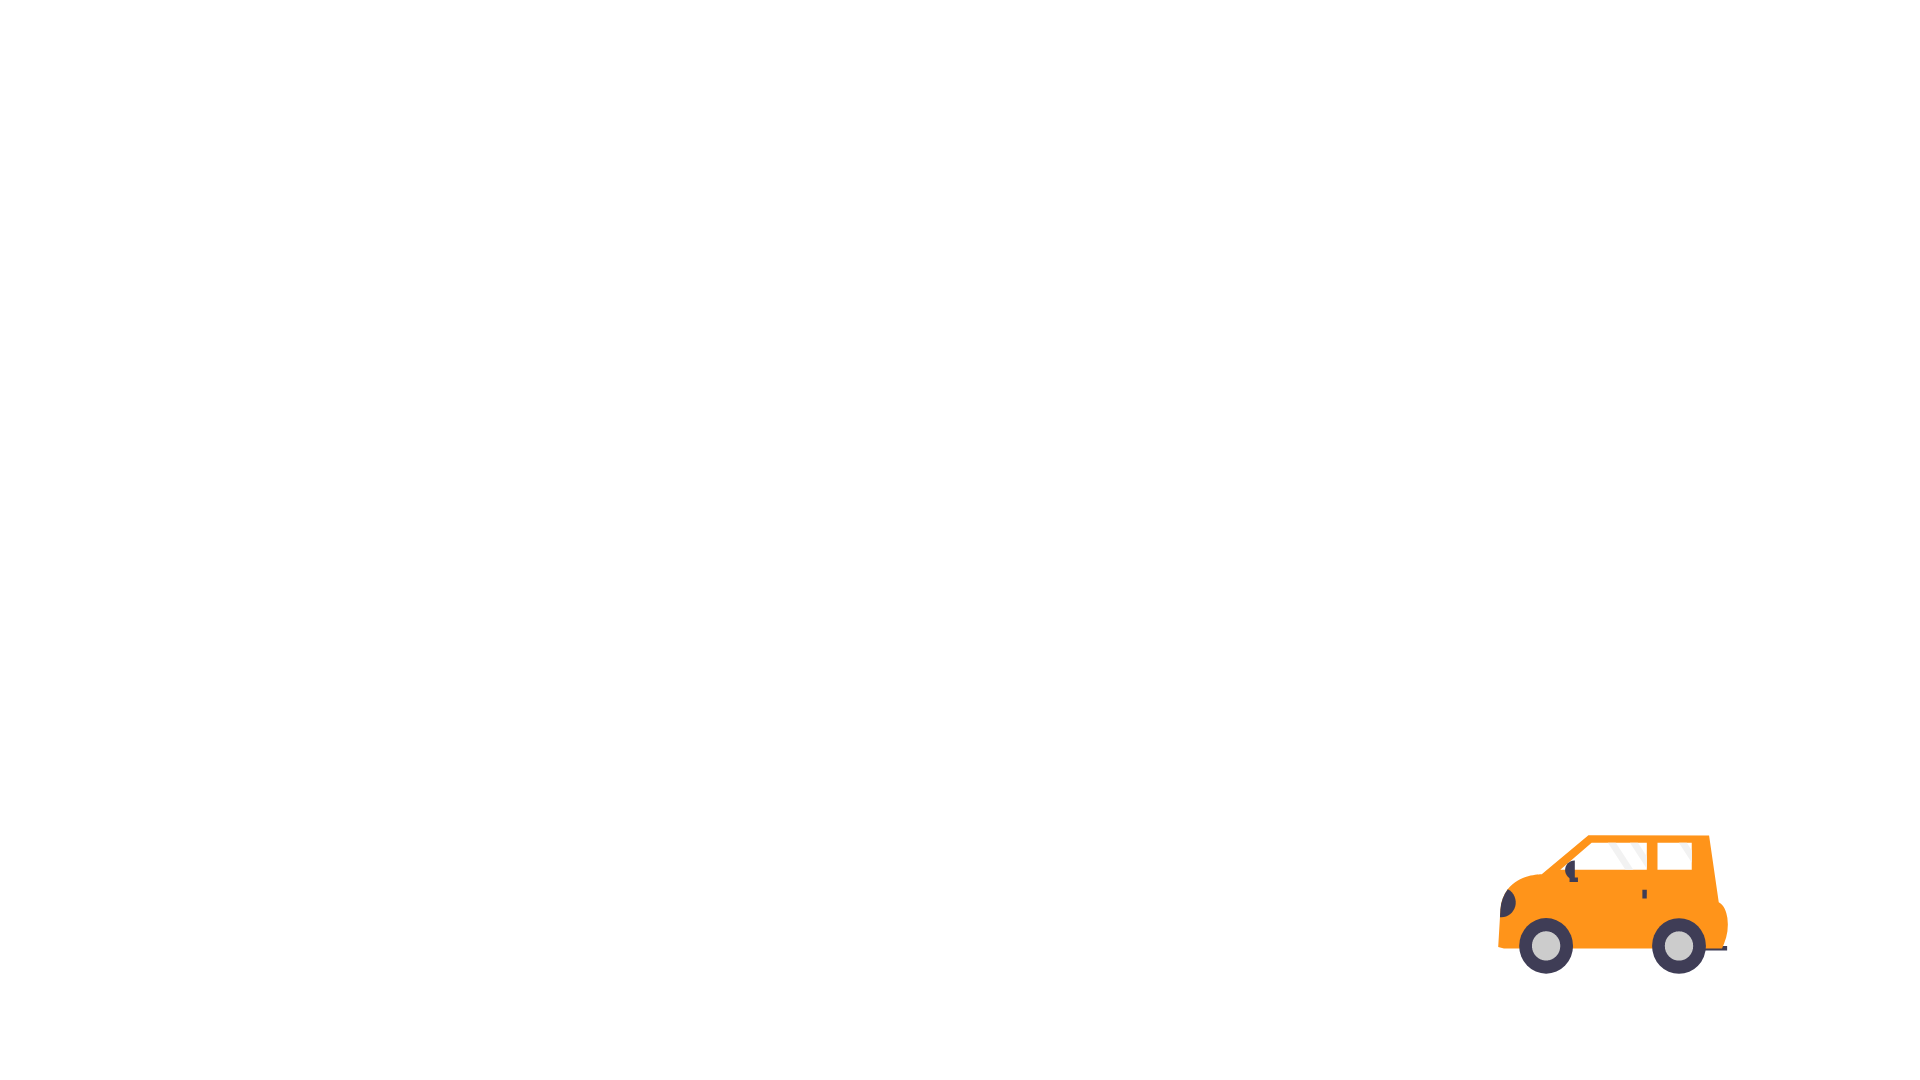
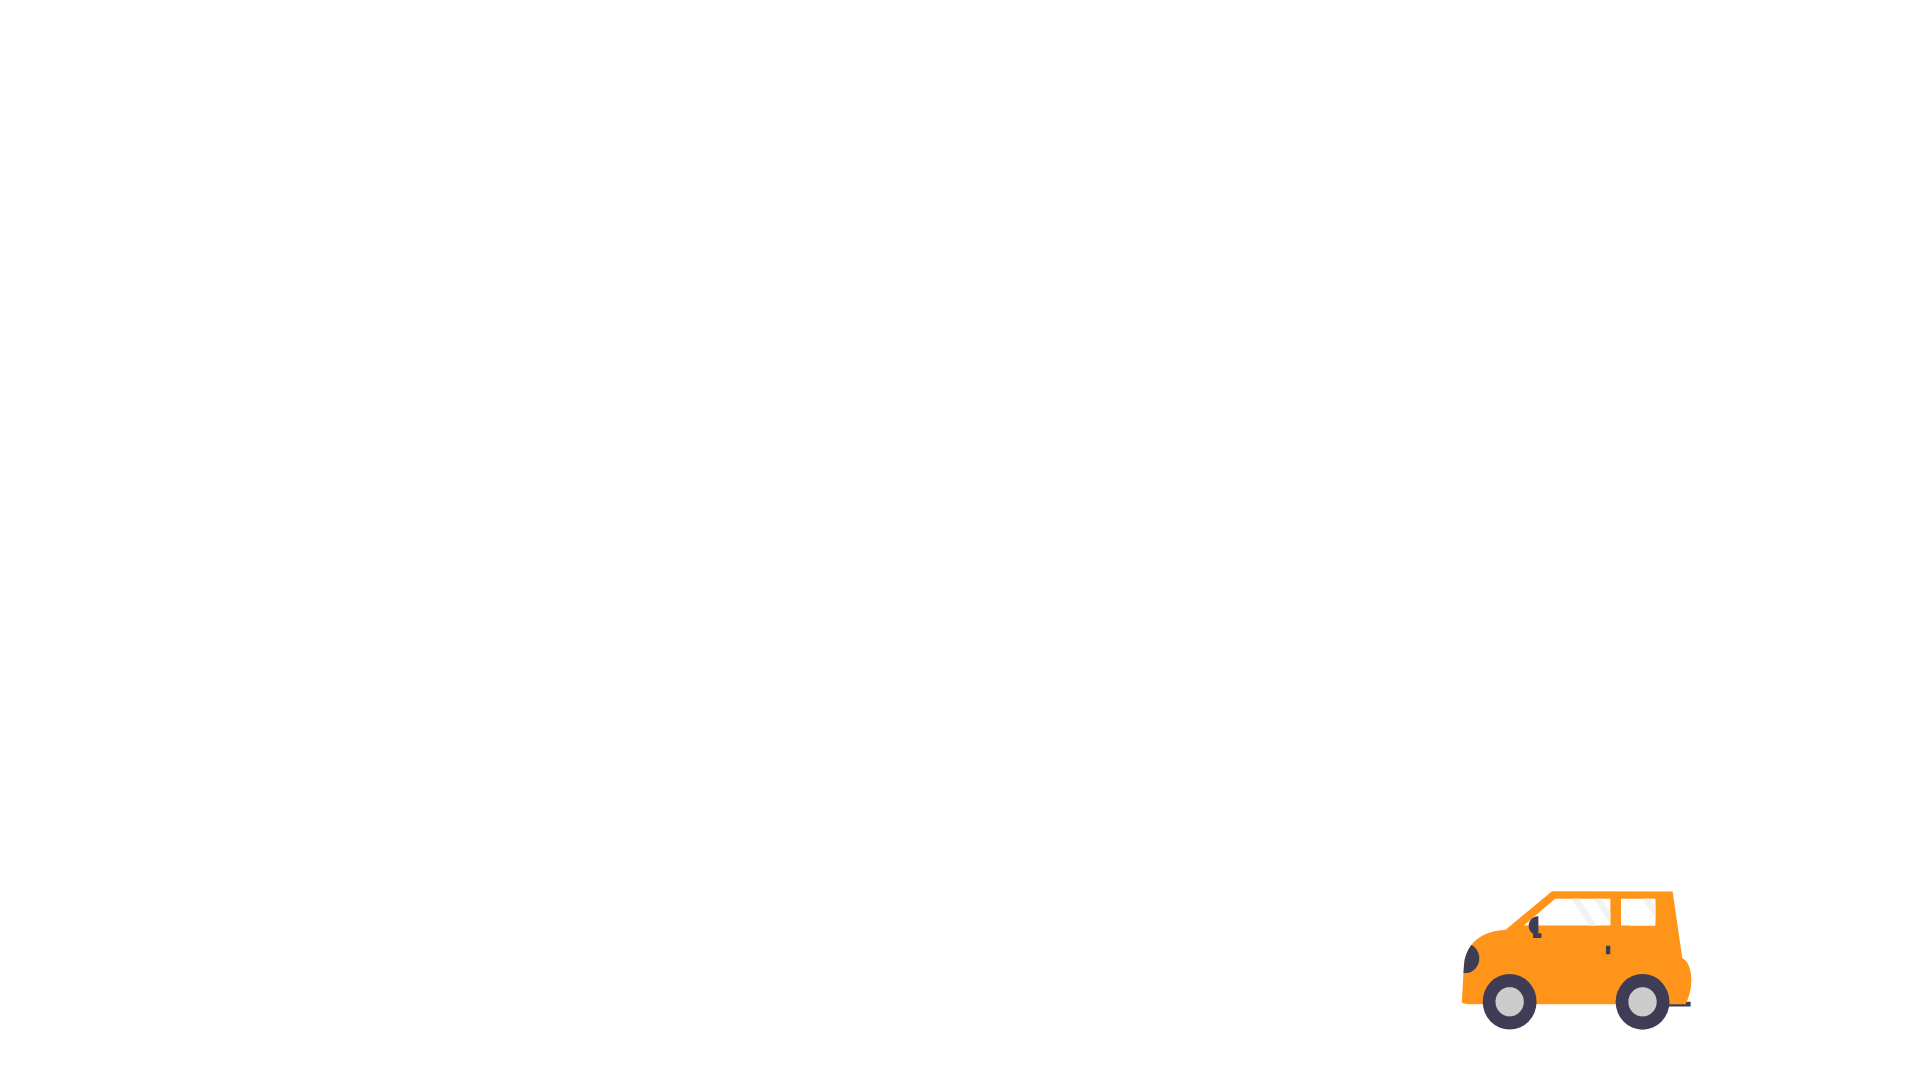
commit on master

Changed region(s): [[0.75, 0.7639, 0.9062, 0.9472]]

diff --git a/issues/section.css b/issues/section.css
@@ -1,239 +1,47 @@
-:root {
-    --primary: rgb(255, 145, 0);
-    --light: white;
-    --dark: black;
-  }
-  * {
-    padding: 0;
-    margin: 0;
-    box-sizing: border-box;
-    font-family: "Segoe UI", Tahoma, Geneva, Verdana, sans-serif;
-  }
-  body {
-    background: white;
-    overflow-x: hidden;
-  }
-  
-  header .container {
+body {
+  background: white;
+  overflow-x: hidden;
+}
+* {
+  padding: 0;
+  margin: 0;
+  box-sizing: border-box;
+}
+.section{
     display: flex;
+    width: 100%;
     justify-content: space-between;
+    position: relative;
     align-items: center;
-    width: 100%;
-    margin-right: 0%;
-    margin-top: 20px;
-    top: 0;
-    left: 0;
-  }
-  header {
-    padding: 0 20px;
-    height: 50px;
-    display: flex;
-    justify-content: space-between;
-  }
-  
-  .title {
-    display: flex;
-    font-family: "Segoe UI", Tahoma, Geneva, Verdana, sans-serif;
-    padding-left: 15px;
-    align-items: center;
-  }
-  #title_text {
-    z-index: 1;
-    font-size: 1em;
-    padding-left: 15px;
-    position: absolute;
-  }
-  #title-line {
-    z-index: 3;
-    width: 5px;
-    height: 45px;
-    position: absolute;
-  }
-  
-  
-  .navbar li {
-    float: left;
-    list-style: none;
-    margin: 13px 20px;
-  }
-  
-  ul {
-    list-style: none;
-  }
-  
-  .navbar li a {
-    border-radius: 50px;
-    background-color: rgb(255, 145, 0);
-    padding: 6px 20px;
-    box-shadow: 1px 1px 4px rgb(49, 49, 49);
-    text-decoration: none;
-    color: white;
-    font-family: "Segoe UI", Tahoma, Geneva, Verdana, sans-serif;
-    font-variant: normal;
-    font-weight: bold;
-  }
-  .navbar li a:hover {
-    background-color: white;
-    color: rgb(255, 145, 0);
-  }
-  
-  .menu{
-    margin: auto 0;
-    display: none;
-    cursor: pointer;
-  }
-  
-  .menu div {
-    width: 35px;
-    height: 3px;
-    background-color: black;
-    margin: 6px 0;
-    transition: 0.4s;
-  }
-  
-  .menu:hover .bar2{
-    transform: translateX(10px);
-    background-color: var(--primary);
-  
-  }
-  .open .bar1 {
-    -webkit-transform: rotate(-45deg) translate(-6px, 6px);
-    transform: rotate(-45deg) translate(-6px, 6px);
-  }
-  
-  .open .bar2 {
-    opacity: 0;
-  }
-  
-  .open .bar3 {
-    -webkit-transform: rotate(45deg) translate(-6px, -8px);
-    transform: rotate(45deg) translate(-6px, -8px);
-  }
-  .menu.open:hover div{
-    background-color: var(--primary);
-  }
-  
-  .open .mobile-menu {
-    display: flex;
-    flex-direction: column;
-    align-items: center;
-    justify-content: flex-start;
-  }
-  
-  .mobile-menu {
-    display: none;
-    position: absolute;
-    list-style: none;
-    top: 100px;
-    left: 0;
-    text-decoration: none;
-    height: calc(100vh - 50px);
-    width: 100%;
-  }
-  
-  .mobile-menu li {
-    float: left;
-    list-style: none;
-    margin: 13px 20px;
-  }
-  .mobile-menu li a {
-    border-radius: 50px;
-    background-color: rgb(255, 145, 0);
-    padding: 6px 20px;
-    box-shadow: 1px 1px 4px rgb(49, 49, 49);
-    text-decoration: none;
-    color: white;
-    font-family: "Segoe UI", Tahoma, Geneva, Verdana, sans-serif;
-    font-variant: normal;
-    font-weight: bold;
-  }
-  .mobile-menu li a:hover {
-    background-color: white;
-    color: rgb(255, 145, 0);
-  }
-  
-  .mobile-menu li {
-    margin-bottom: 10px;
-  }
-  
-  
-  @media only screen and (max-width: 900px) {
-    header nav {
-      display: none;
-    }
-  
-    .menu {
-      display: block;
-    }
-  }
-  @media only screen and (max-width: 350px) {
-    header nav {
-      display: none;
-    }
-  
-    .menu {
-      display: block;
-    }
-    .title {
-      display: flex;
-      font-family: "Segoe UI", Tahoma, Geneva, Verdana, sans-serif;
-      padding-left: 15px;
-      align-items: center;
-    }
-    #title_text {
-      z-index: 1;
-      font-size: 0.75em;
-      padding-left: 15px;
-      position: absolute;
-    }
-    #title-line {
-      z-index: 3;
-      width: 4px;
-      height: 30px;
-      position: absolute;
-    }
-  }
-  
-  /*>>>>>>>>>>>>>>>>>>>>>>>>>>>>>>>>>>>>>>>>>>>>>>>>>>>>>>>>>>>>>>>>>>>>>>>>>>>>>>>>>>>> */
-  .background {
-    display: flex;
-    width: 100%;
-    min-height: 50rem;
-    align-items: center;
-      padding: 0px 200px;
-      position: relative;
-      justify-content: space-between;
-  }
-  .bg {
-    position: absolute;
-    top: 0;
-    left: 0;
-    width: auto;
-    height: 70%; 
-    pointer-events: none;
-    object-fit: cover;
-    margin-left: 400px;
-    margin-right: 0%;
-  }
-  .text {
-    display: flex;
-    flex-direction: column;
-    align-items: center;
-  }
-  #middle-line {
-  height: 3.45px;
-  width: 228px;
-  text-align: left;
-  }
-  #middle-text1 {
-  font-size: 200%;
-  font-family: "Segoe UI", Tahoma, Geneva, Verdana, sans-serif;
-  font-weight: bold;
-  text-align: left;
-  }
-  #middle-text2 {
-  font-size: 100%;
-  font-family: "Segoe UI", Tahoma, Geneva, Verdana, sans-serif;
-  font-weight: bold;
-  text-align: left;
-  }
+    flex-direction: row;
+}
+.section .text{
+  display: flex;
+  flex-direction: column;
+  align-items: center;
+}
+#middle-line {
+height: 3.45px;
+width: 228px;
+text-align: left;
+}
+#middle-text1 {
+font-size: 3em;
+font-family: "Segoe UI", Tahoma, Geneva, Verdana, sans-serif;
+font-weight: bold;
+text-align: left;
+}
+#middle-text2 {
+font-size: 1.5em;
+font-family: "Segoe UI", Tahoma, Geneva, Verdana, sans-serif;
+font-weight: bold;
+text-align: left;
+}
+.bg{
+  position: absolute;
+  top: 0;
+  left: 0; 
+  pointer-events: none;
+  object-fit: cover;
+  width: 60%;
+}

diff --git a/issues/section.html b/issues/section.html
@@ -4,77 +4,27 @@
     <meta charset="UTF-8" />
     <meta http-equiv="X-UA-Compatible" content="IE=edge" />
     <meta name="viewport" content="width=device-width, initial-scale=1.0" />
-    <link rel="stylesheet" href="style.css" />
-    <title>Navigation bar</title>
+    <link rel="stylesheet" href="section.css" />
+    <title>Middel Main section repair</title>
 </head>
 
 <body>
-    <header>
-        <div class="container">
-            <div class="title">
-                <img src="/CabHire-Web/img/Line 2.png" alt="" id="title-line">
-                <h1 id="title_text">Cab Hire In Ahmedabad</h1>
+    <div class="section">
+        <div class="background">
+            <div class="text">
+                <h1 id="middle-text1"><span>Aai Shree Khodiyar</span></h1>
+                <img src="/CabHire-Web/img/Line 1.png" alt="" id="middle-line">
+                <h1 id="middle-text2"><span>Tour & Travelles</span></h1>
             </div>
-            <nav class="navbar" id="myTopnav">
-                <ul>
-                    <li><a href="#" class="is-active">Home</a></li>
-                    <li><a href="#">Service</a></li>
-                    <li><a href="#">Gallary</a></li>
-                    <li><a href="#">About</a></li>
-                    <li><a href="#">Contact</a></li>
-                </ul>
-            </nav>
-            <div class="menu" onclick="toggleMobileMenu(this)">
-                <div class="bar1"></div>
-                <div class="bar2"></div>
-                <div class="bar3"></div>
-                <ul class="mobile-menu">
-                    <li><a href="/home">Home</a></li>
-                    <li><a href="/products">Products</a></li>
-                    <li><a href="/about">About</a></li>
-                </ul>
+            <div id="bg">
+                <img src="/CabHire-Web/img/cloud1.png" alt="" id="cloud1" class="bg">
+                <img src="/CabHire-Web/img/cloud2.png" alt="" id="cloud2" class="bg">
+                <img src="/CabHire-Web/img/sun.png" alt="" id="sun" class="bg">
+                <img src="/CabHire-Web/img/mountains.png" alt="" id="mountain" class="bg">
+                <img src="/CabHire-Web/img/car.png" alt="" id="car" class="bg">
             </div>
-        </div>
-    </header>
-    <div class="background">
-        <div class="text">
-            <h1 id="middle-text1"><span>Aai Shree Khodiyar</span></h1>
-            <img src="img/Line 1.png" alt="" id="middle-line">
-            <h1 id="middle-text2"><span>Tour & Travelles</span></h1>
-        </div>
-        <div id="bg">
-            <img src="img/cloud1.png" alt="" id="cloud1" class="bg">
-            <img src="img/cloud2.png" alt="" id="cloud2" class="bg">
-            <img src="img/sun.png" alt="" id="sun" class="bg">
-            <img src="img/mountain.png" alt="" id="mountain" class="bg">
-            <img src="img/Car.png" alt="" id="car" class="bg">
         </div>
     </div>
-    <script src="index.js"></script>
-    <script>// <!-- .......................bottom animation Start................... -->
-        let cloud1 = document.getElementById("cloud1");
-        let cloud2 = document.getElementById("cloud2");
-        let sun = document.getElementById("sun");
-        let car = document.getElementById("car");
-        let title_text = document.getElementById("title_text");
-    
-        window.addEventListener('scroll', function () {
-            let value = window.scrollY;
-    
-            cloud1.style.left = value * -0.5 + 'px';
-            cloud2.style.left = value * 0.5 + 'px';
-            car.style.left = value * -0.5 + 'px';
-            sun.style.left = value * 1 + 'px';
-        })
-    
-    // <!-- .......................bottom animation End................... -->
-    </script>
-
-    <script>
-        function toggleMobileMenu(menu) {
-    menu.classList.toggle('open');
-}
-    </script>
 </body>
 
 </html>
